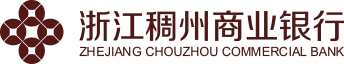
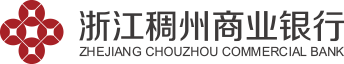
chore(home): 日志标记与间距微调；chore(banks): 增补/更新部分银行logo资源

diff --git a/src/views/Home.vue b/src/views/Home.vue
@@ -5,9 +5,9 @@
       <div class="meta">{{ username }} · {{ today }}</div>
     </div>
     <!-- 快捷入口（APP式 3D 交互） -->
-    <div class="quick" style="margin-top:8px;">
+    <div class="quick" style="margin-top:8px; margin-bottom:8px;">
       <el-card shadow="never">
-        <div class="quick-title">{{ t('home.quickActions') }}</div>
+        <div class="quick-title" data-testid="qa-title">{{ t('home.quickActions') }}</div>
         <template v-if="quickActions.some(i => i.show)">
           <div class="app-buttons">
             <div 
@@ -233,6 +233,13 @@ async function loadTodos(){
   } catch {}
 }
 onMounted(() => { loadTodos(); loadPlatforms() })
+// 轻量日志，便于定位本机“快捷入口”不可见问题（生产无害）
+onMounted(() => {
+  try {
+    const visible = (quickActions.value || []).filter(i => i.show)
+    console.info('[Home] QuickActions visible count =', visible.length, 'perms=', (state?.perms||[]))
+  } catch {}
+})
 
 async function openTodo(row){
   const d = await api.fx.payments.detail(row.id)
